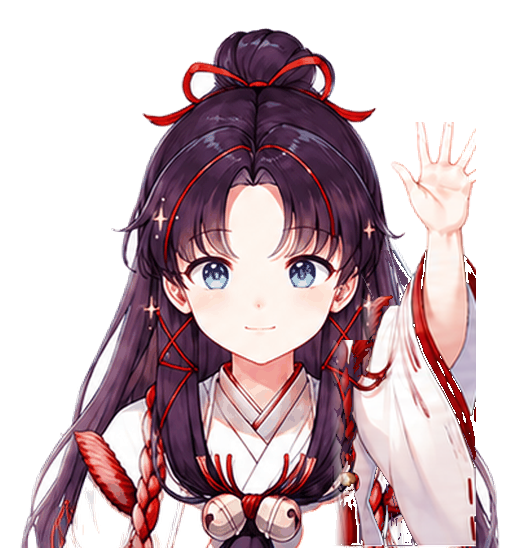
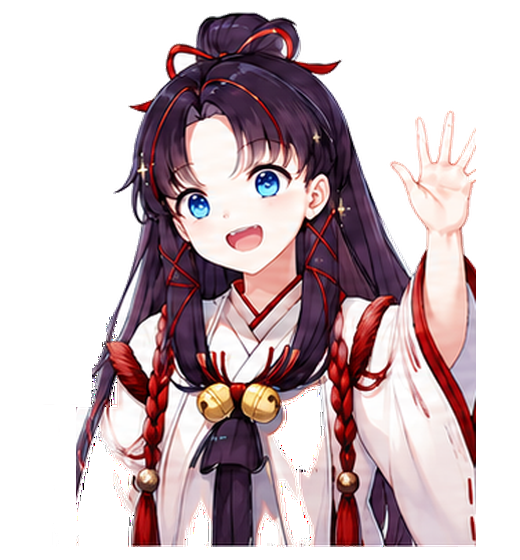
Refine mascot blink and wave frames

diff --git a/scripts/refine_mascot_frames.py b/scripts/refine_mascot_frames.py
@@ -16,18 +16,8 @@ CANVAS = (520, 560)
 BASELINE = 548
 PREVIEW_CELL = (188, 182)
 BLINK_FRAME_NAMES = ["open", "half-1", "half-2", "closed", "open-2"]
-BLINK_FACE_SHIFT_Y = 10
-BLINK_EXPRESSION_POLYGON = [
-    (212, 202),
-    (308, 202),
-    (357, 248),
-    (347, 315),
-    (306, 348),
-    (260, 362),
-    (214, 348),
-    (173, 315),
-    (163, 248),
-]
+BLINK_EYE_BOXES = [(154, 258, 246, 300), (274, 258, 366, 300)]
+BLINK_MOUTH_BOX = (226, 318, 300, 336)
 WAVE_ARM_CUTS = [
     (344, 220),
     (342, 198),
@@ -190,6 +180,108 @@ def repair_lower_garment_holes(
     return rgba
 
 
+def remove_wave_edge_fragments(image: Image.Image) -> Image.Image:
+    cleaned = remove_left_edge_fragments(image, max_area=9000, max_x=86)
+    pixels = cleaned.load()
+    width, height = cleaned.size
+    visited = [[False for _ in range(width)] for _ in range(height)]
+    for y in range(height):
+        for x in range(min(54, width)):
+            r, g, b, a = pixels[x, y]
+            if a <= 8:
+                continue
+            if y < 405 and (x < 36 or min(r, g, b) > 180):
+                pixels[x, y] = (r, g, b, 0)
+
+    for y in range(height):
+        for x in range(width):
+            if visited[y][x]:
+                continue
+            visited[y][x] = True
+            if pixels[x, y][3] <= 8:
+                continue
+
+            queue: deque[tuple[int, int]] = deque([(x, y)])
+            coords: list[tuple[int, int]] = []
+            min_x = max_x = x
+            min_y = max_y = y
+            while queue:
+                cx, cy = queue.popleft()
+                if pixels[cx, cy][3] <= 8:
+                    continue
+                coords.append((cx, cy))
+                min_x = min(min_x, cx)
+                max_x = max(max_x, cx)
+                min_y = min(min_y, cy)
+                max_y = max(max_y, cy)
+                for nx, ny in ((cx + 1, cy), (cx - 1, cy), (cx, cy + 1), (cx, cy - 1)):
+                    if 0 <= nx < width and 0 <= ny < height and not visited[ny][nx]:
+                        visited[ny][nx] = True
+                        queue.append((nx, ny))
+
+            area = len(coords)
+            near_left_edge = min_x <= 108 and max_x <= 140
+            isolated_lower_piece = min_y >= 430 and area <= 1600
+            isolated_vertical_edge = max_x <= 58 and area <= 1200
+            if near_left_edge and (isolated_lower_piece or isolated_vertical_edge):
+                for px, py in coords:
+                    r, g, b, _a = pixels[px, py]
+                    pixels[px, py] = (r, g, b, 0)
+    return cleaned
+
+
+def inpaint_lower_transparency(image: Image.Image) -> Image.Image:
+    rgba = repair_lower_garment_holes(image, lower_start_ratio=0.56, margin_x=18, kernel_size=17)
+    pixels = rgba.load()
+    alpha = rgba.getchannel("A")
+    alpha_pixels = alpha.load()
+    bbox = alpha_bbox(rgba)
+    x_start = max(0, bbox[0] + 18)
+    x_end = min(rgba.width, bbox[2] - 18)
+    y_start = max(395, bbox[1] + round((bbox[3] - bbox[1]) * 0.58))
+
+    for y in range(y_start, bbox[3]):
+        opaque_xs = [x for x in range(x_start, x_end) if alpha_pixels[x, y] > 8]
+        if len(opaque_xs) < 2:
+            continue
+        left_edge = opaque_xs[0]
+        right_edge = opaque_xs[-1]
+        if right_edge - left_edge < 120:
+            continue
+        for x in range(left_edge, right_edge + 1):
+            if alpha_pixels[x, y] > 8:
+                continue
+            left = next((lx for lx in range(x - 1, left_edge - 1, -1) if alpha_pixels[lx, y] > 8), None)
+            right = next((rx for rx in range(x + 1, right_edge + 1) if alpha_pixels[rx, y] > 8), None)
+            if left is None and right is None:
+                continue
+            if left is None:
+                sample = pixels[right, y]
+            elif right is None:
+                sample = pixels[left, y]
+            else:
+                sample = tuple((pixels[left, y][channel] + pixels[right, y][channel]) // 2 for channel in range(4))
+            pixels[x, y] = (sample[0], sample[1], sample[2], 255)
+            alpha_pixels[x, y] = 255
+
+    rgba.putalpha(alpha)
+    return rgba
+
+
+def clear_left_wave_artifact(image: Image.Image, index: int) -> Image.Image:
+    if index < 4:
+        return image
+
+    rgba = image.convert("RGBA")
+    pixels = rgba.load()
+    for y in range(370, rgba.height):
+        for x in range(min(76, rgba.width)):
+            r, g, b, a = pixels[x, y]
+            if a > 8:
+                pixels[x, y] = (r, g, b, 0)
+    return rgba
+
+
 def normalize_frame(
     image: Image.Image,
     *,
@@ -243,14 +335,123 @@ def build_stable_wave_frame(base: Image.Image, source: Image.Image, index: int) 
     return repair_lower_garment_holes(frame, row_fill=False)
 
 
-def compose_blink_expression(base: Image.Image, donor: Image.Image) -> Image.Image:
-    shifted = Image.new("RGBA", CANVAS, (255, 255, 255, 0))
-    shifted.alpha_composite(donor.convert("RGBA"), (0, BLINK_FACE_SHIFT_Y))
+def quadratic_points(
+    start: tuple[int, int],
+    control: tuple[int, int],
+    end: tuple[int, int],
+    *,
+    steps: int = 32,
+) -> list[tuple[int, int]]:
+    points = []
+    for index in range(steps):
+        t = index / (steps - 1)
+        x = round((1 - t) ** 2 * start[0] + 2 * (1 - t) * t * control[0] + t**2 * end[0])
+        y = round((1 - t) ** 2 * start[1] + 2 * (1 - t) * t * control[1] + t**2 * end[1])
+        points.append((x, y))
+    return points
 
+
+def sample_face_color(base: Image.Image) -> tuple[int, int, int, int]:
+    pixels = base.convert("RGBA").load()
+    colors: list[tuple[int, int, int]] = []
+    for y in range(292, 350):
+        for x in range(176, 344):
+            r, g, b, a = pixels[x, y]
+            if a > 220 and r > 218 and g > 166 and b > 152 and max(r, g, b) - min(r, g, b) < 90:
+                colors.append((r, g, b))
+
+    if not colors:
+        return (248, 228, 219, 255)
+
+    r, g, b = (sum(color[index] for color in colors) // len(colors) for index in range(3))
+    return (max(0, r - 4), max(0, g - 10), max(0, b - 12), 255)
+
+
+def cover_open_eyes(base: Image.Image) -> Image.Image:
+    frame = base.convert("RGBA")
+    skin_patch = Image.new("RGBA", CANVAS, sample_face_color(frame))
     mask = Image.new("L", CANVAS, 0)
-    ImageDraw.Draw(mask).polygon(BLINK_EXPRESSION_POLYGON, fill=255)
-    mask = mask.filter(ImageFilter.GaussianBlur(4))
-    return Image.composite(shifted, base.convert("RGBA"), mask)
+    draw = ImageDraw.Draw(mask)
+    for box in BLINK_EYE_BOXES:
+        draw.rounded_rectangle(box, radius=18, fill=255)
+    draw.rounded_rectangle(BLINK_MOUTH_BOX, radius=9, fill=145)
+    mask = mask.filter(ImageFilter.GaussianBlur(1.4))
+    return Image.composite(skin_patch, frame, mask)
+
+
+def paste_eye_slit(frame: Image.Image, base: Image.Image, box: tuple[int, int, int, int], openness: int) -> None:
+    x1, y1, x2, y2 = box
+    eye = base.convert("RGBA").crop(box)
+    mask = Image.new("L", eye.size, 0)
+    draw = ImageDraw.Draw(mask)
+    center_y = 22
+    draw.rounded_rectangle(
+        (9, center_y - openness, eye.width - 9, center_y + openness),
+        radius=max(2, openness),
+        fill=205,
+    )
+    mask = mask.filter(ImageFilter.GaussianBlur(0.4))
+    frame.paste(eye, (x1, y1), mask)
+
+
+def draw_blink_expression(base: Image.Image, name: str) -> Image.Image:
+    if name in {"open", "open-2"}:
+        return base.convert("RGBA").copy()
+
+    frame = cover_open_eyes(base)
+    draw = ImageDraw.Draw(frame, "RGBA")
+    expressions = {
+        "half-1": {
+            "eye_y": 273,
+            "curve": -5,
+            "width": 2,
+            "highlight": 1,
+            "mouth_y": 324,
+        },
+        "half-2": {
+            "eye_y": 276,
+            "curve": -2,
+            "width": 2,
+            "highlight": 0,
+            "mouth_y": 324,
+        },
+        "closed": {
+            "eye_y": 278,
+            "curve": 1,
+            "width": 3,
+            "highlight": 0,
+            "mouth_y": 324,
+        },
+    }
+    expression = expressions[name]
+
+    for box, side in zip(BLINK_EYE_BOXES, [-1, 1]):
+        if name == "half-1":
+            paste_eye_slit(frame, base, box, openness=4)
+        elif name == "half-2":
+            paste_eye_slit(frame, base, box, openness=2)
+
+        x1, _y1, x2, _y2 = box
+        y = expression["eye_y"]
+        inset = 12 if name == "closed" else 14
+        start = (x1 + inset, y)
+        control = ((x1 + x2) // 2, y + expression["curve"])
+        end = (x2 - inset, y)
+        points = quadratic_points(start, control, end)
+        draw.line(points, fill=(48, 23, 42, 238), width=expression["width"], joint="curve")
+
+        lash_anchor = points[-1] if side < 0 else points[0]
+        lash_dx = 8 * side
+        draw.line(
+            [lash_anchor, (lash_anchor[0] + lash_dx, lash_anchor[1] - 3)],
+            fill=(48, 23, 42, 178),
+            width=2,
+        )
+
+    mouth_y = expression["mouth_y"]
+    mouth_points = quadratic_points((238, mouth_y), (264, mouth_y + 1), (288, mouth_y), steps=24)
+    draw.line(mouth_points, fill=(110, 54, 64, 185), width=1)
+    return frame
 
 
 def crop_grid(image: Image.Image, cols: int, rows: int, index: int) -> Image.Image:
@@ -286,13 +487,13 @@ def crop_wave_cell(image: Image.Image, index: int) -> Image.Image:
 
 
 def regenerate_wave_frames() -> None:
-    base = repair_lower_garment_holes(Image.open(OUT / "look" / "center.png").convert("RGBA"))
     wave_sheet = Image.open(WAVE_SRC).convert("RGBA")
     for index in range(8):
         crop = crop_wave_cell(wave_sheet, index)
-        cleaned = remove_left_edge_fragments(whiten_to_alpha(crop))
+        cleaned = remove_wave_edge_fragments(whiten_to_alpha(crop))
         source = normalize_frame(cleaned, target_height=536, prepared_alpha=True)
-        frame = build_stable_wave_frame(base, source, index)
+        frame = inpaint_lower_transparency(source)
+        frame = clear_left_wave_artifact(frame, index)
         frame.save(OUT / "wave" / f"wave-{index}.png")
 
 
@@ -324,16 +525,9 @@ def refine_up_down_look_frames() -> None:
 
 
 def regenerate_blink_frames() -> None:
-    blink_sheet = Image.open(BLINK_SRC).convert("RGBA")
     base = Image.open(OUT / "look" / "center.png").convert("RGBA")
-    for index, name in enumerate(BLINK_FRAME_NAMES):
-        if name in {"open", "open-2"}:
-            base.save(OUT / "blink" / f"{name}.png")
-            continue
-
-        crop = crop_strip(blink_sheet, len(BLINK_FRAME_NAMES), index)
-        donor = normalize_frame(crop, target_height=521)
-        frame = compose_blink_expression(base, donor)
+    for name in BLINK_FRAME_NAMES:
+        frame = draw_blink_expression(base, name)
         frame.save(OUT / "blink" / f"{name}.png")
 
 

diff --git a/README.md b/README.md
@@ -48,15 +48,15 @@ draft: false
 - sitemap：由 Astro sitemap 集成生成，帮助搜索引擎发现页面。
 - robots.txt：公开爬虫规则并声明 sitemap 地址。
 - 评论占位：现在只留位置，不连接任何评论服务。
-- 二次元小角色：使用 `public/images/mascot-frames/` 中的动作帧，支持鼠标视线方向切换、正面空闲眨眼、点击挥手、拖动位置和隐藏；移动端隐藏，不连接后端。眨眼直接播放 `blink/` 里的慢速表情帧，保持身体稳定；挥手时用静止底图叠加右臂动作，避免身体大幅漂移。
+- 二次元小角色：使用 `public/images/mascot-frames/` 中的动作帧，支持鼠标视线方向切换、正面空闲眨眼、点击挥手、拖动位置和隐藏；移动端隐藏，不连接后端。眨眼基于当前正面脸型局部重绘眼部表情；挥手使用完整动作帧，让手部、头部和身体一起产生问候动作。
 
 图片资源放在 `public/images/`：
 
 - `site-bg.jpg`：页面背景图，显示时约 45% 不透明度。
 - `mascot-frames/look/`：九宫格视线方向帧，用于根据鼠标位置切换小人朝向；右向帧由左向帧镜像生成，保证左右一致。
-- `mascot-frames/blink/`：保留眨眼审核帧；实际网页眨眼直接播放这些合成帧，只让脸部表情变化，睁眼帧保持正面身体稳定。
-- `mascot-frames/wave/`：打招呼帧，用于点击或显示时的挥手动作；包含算法补出的 `wave-*-to-*` 过渡帧，让动作更连贯。当前挥手帧以静止正面帧为底图，再叠加右臂动作，减少身位变化。
-- `scripts/refine_mascot_frames.py`：使用 `uv` 虚拟环境中的 Pillow 重新生成动作帧、修复挥手切分边界、补正上/正下视角、填补下摆透明破洞、生成补帧，并把眨眼帧合成为更慢、更稳定的表情序列。
+- `mascot-frames/blink/`：保留眨眼审核帧；实际网页眨眼直接播放这些合成帧，只在当前正面脸型上改变眼线、眼缝和嘴部，避免整块人脸贴偏。
+- `mascot-frames/wave/`：打招呼帧，用于点击或显示时的挥手动作；包含算法补出的 `wave-*-to-*` 过渡帧，让动作更连贯。当前挥手帧保留完整手部，并允许头部和身体随动作自然变化。
+- `scripts/refine_mascot_frames.py`：使用 `uv` 虚拟环境中的 Pillow 重新生成动作帧、修复挥手切分边界、补正上/正下视角、填补下摆透明破洞、生成补帧，并把眨眼帧重做为贴合当前脸型的慢速表情序列。
 - 所有动作帧统一为同一画布和同一底部基线，避免动作之间忽大忽小。
 - `mascot-frames/preview.jpg`：动作帧预览图，只用于本地检查，不提交到仓库。
 

diff --git a/requirements.md b/requirements.md
@@ -404,6 +404,8 @@ src/components/CursorCharacter.astro
 - 动作帧下方服饰区域不能保留明显不规则透明破洞；应通过本地可复现的 alpha 修复或局部填补方式恢复衣服主体，不要用会泄露源图或敏感信息的外部服务处理
 - 眨眼动作需要保留 `public/images/mascot-frames/blink/` 中半闭眼、闭眼帧的傲娇神情；播放速度不能过快，应使用更慢的帧序列表现自然眨眼，优先播放合成后的 PNG 帧序列，而不是再用整张人物切换
 - 修补残缺衣服、头发或白边时，应优先参考最初用户提供的源图中对应帧的原始内容进行局部合成，不应使用粗暴扩张 alpha 造成新白边或不自然块状区域
+- 眨眼表情不能把不匹配的人脸区域硬扣到当前角色脸上；应基于当前正面帧的人脸坐标局，只重绘或局部合成眼睛、眼皮和嘴部，使半闭眼、闭眼表情贴合当前脸型
+- 打招呼动作不能只让手部单独运动；手部必须尽量完整显示，同时头部和身体应有轻微配合动作，形成自然的问候姿态，避免僵硬的静止身体叠加断手
 - 移动端隐藏或简化，不遮挡正文
 - 尊重 `prefers-reduced-motion`
 

diff --git a/plan.md b/plan.md
@@ -52,3 +52,7 @@
 - [x] 使用最初源图参考修补动作帧残缺和白边
 - [x] 更新组件播放序列和文档
 - [x] 运行检查并提交
+- [x] 更新眨眼贴脸和挥手完整动作需求
+- [x] 重做贴合当前脸型的眨眼帧
+- [x] 重建手部完整且头身配合的打招呼帧
+- [x] 更新组件/文档并运行检查提交
